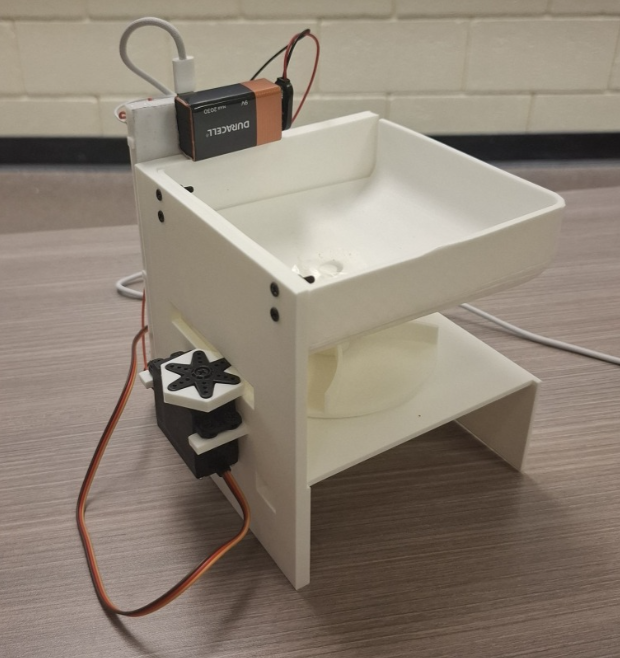
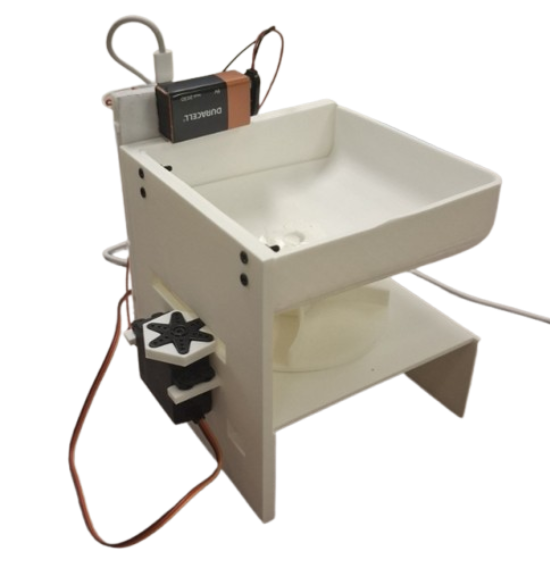
small bug fixes

diff --git a/index.html b/index.html
@@ -177,7 +177,7 @@
             <span class="proj-num">03</span>
             <div class="proj-pills"><span>Python</span><span>OpenCV</span><span>MediaPipe</span></div>
           </div>
-          <h3>RepAI</h3>
+          <h3>RepAI - An Intelligent Workout Assistant</h3>
           <p>An intelligent workout assistant that uses Python, Mediapipe, OpenCV, and YOLOv8 libraries to provide real-time feedback, rep counting, and guidance during various exercise routines.</p>
           <div class="proj-links"><a href="Projects/repai.html">Learn More! ↗</a></div>
         </div>
@@ -207,7 +207,7 @@
             <span class="proj-num">05</span>
             <div class="proj-pills"><span>Python</span><span>MAVLink</span><span>Computer Vision</span></div>
           </div>
-          <h3>WARG — Drone Ground Station</h3>
+          <h3>Drone Ground Station (w/ Waterloo Aerial Robotics Group)</h3>
           <p>Built a multi-process drone ground station for Waterloo Aerial Robotics Group — HSV colour detection in OpenCV, MAVLink heartbeat monitoring, and autonomous yaw/altitude command workers running in parallel with inter-process queue communication.</p>
           <div class="proj-links"><a href="Projects/warg.html">Learn More! ↗</a></div>
         </div>

diff --git a/projects/aerohacks.html b/projects/aerohacks.html
@@ -191,8 +191,8 @@
         <a href="../index.html#projects" class="proj-back">← Back to projects</a>
         <div class="proj-header-top">
           <div class="proj-header-left">
-            <span class="proj-page-num">03 — Project</span>
-            <h1 class="proj-page-title">Drone Vision & Control</h1>
+            <span class="proj-page-num">04 — Project</span>
+            <h1 class="proj-page-title">Autonomous Drone Stabilization & Control</h1>
             <div class="proj-page-pills">
               <span>Python</span>
               <span>OpenCV</span>

diff --git a/projects/warg.html b/projects/warg.html
@@ -213,8 +213,8 @@
         <a href="../index.html#projects" class="proj-back">← Back to projects</a>
         <div class="proj-header-top">
           <div class="proj-header-left">
-            <span class="proj-page-num">04 — Project</span>
-            <h1 class="proj-page-title">WARG Drone Ground Station</h1>
+            <span class="proj-page-num">05 — Project</span>
+            <h1 class="proj-page-title">Drone Ground Station</h1>
             <div class="proj-page-pills">
               <span>Python</span>
               <span>MAVLink</span>

diff --git a/projects/repai.html b/projects/repai.html
@@ -191,8 +191,8 @@
         <a href="../index.html#projects" class="proj-back">← Back to projects</a>
         <div class="proj-header-top">
           <div class="proj-header-left">
-            <span class="proj-page-num">01 — Project</span>
-            <h1 class="proj-page-title">RepAI</h1>
+            <span class="proj-page-num">03 — Project</span>
+            <h1 class="proj-page-title">RepAI - An Intelligent Workout Assistant</h1>
             <div class="proj-page-pills">
               <span>Python</span>
               <span>YOLOv8</span>

diff --git a/projects/robotarm.html b/projects/robotarm.html
@@ -165,10 +165,6 @@
           cables visible on the finished assembly.
         </p>
 
-        <div class="proj-img-inline">
-          <img src="robotarm-detail.png" alt="End effector detail"/>
-          <div class="proj-img-caption">End effector tool-mount flange — internal cable exit point</div>
-        </div>
 
         <h2>Design Decisions</h2>
         <ul>
